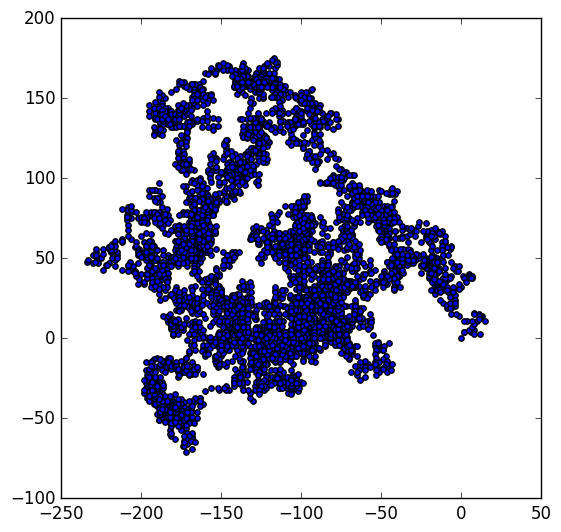
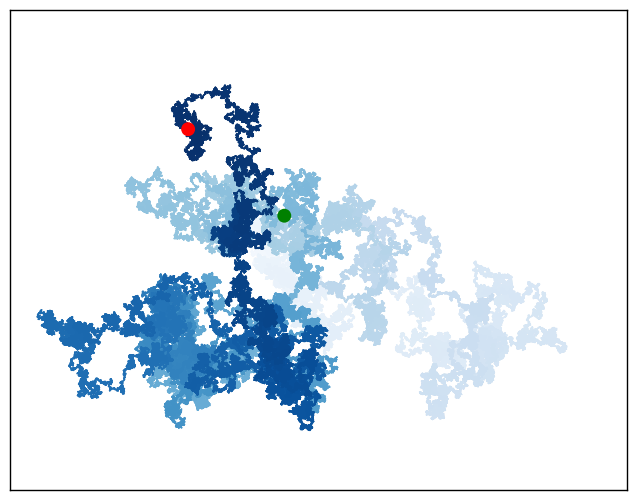
scatter plot updates -able to plot start and ending points -able to plot with increasing colors to mark start and end -able to remove axis data

diff --git a/rw_visual.py b/rw_visual.py
@@ -16,3 +16,33 @@ ax.set_aspect('equal')
 plt.savefig("random_walk_simulation.png", bbox_inches = 'tight' )
 
 plt.show()
+
+# Keep making new walks, as long as the program is active.
+
+while True:
+    # Make a random walk
+    rw = RandomWalk(1_000_000)
+    rw.fill_walk()
+
+    # Plot the point in the walk.
+    plt.style.use('classic')
+    fig, ax = plt.subplots()
+    point_numbers = range(rw.num_points)
+    ax.scatter(rw.x_values, rw.y_values, c = point_numbers, cmap = plt.cm.Blues, edgecolors = 'none', s = 1)
+    ax.set_aspect('equal')
+
+    # Emphasize the first and last points.
+    ax.scatter(0, 0, c = 'green', edgecolors = 'none', s = 100)
+    ax.scatter(rw.x_values[-1], rw.y_values[-1], c = 'red', edgecolors = 'none', s = 100)
+
+    # Remove the axes.
+    ax.get_xaxis().set_visible(False)
+    ax.get_yaxis().set_visible(False)
+
+    plt.savefig("random_walk_simulation.png", bbox_inches = 'tight' )
+
+    plt.show()
+
+    keep_running = input("Make another walk? (y/n): ")
+    if keep_running == 'n':
+        break
